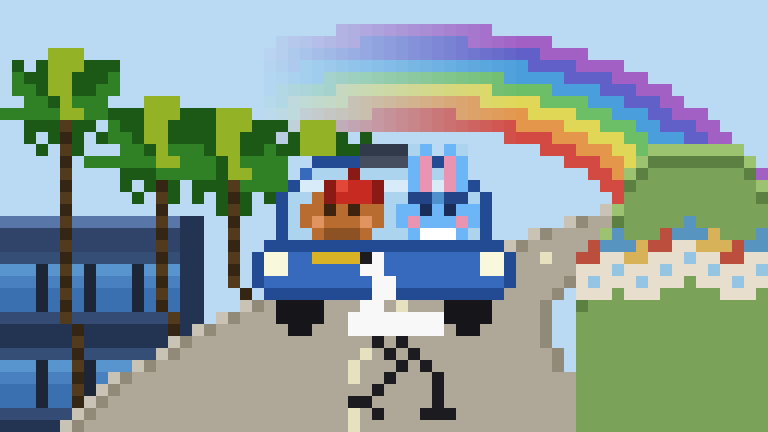
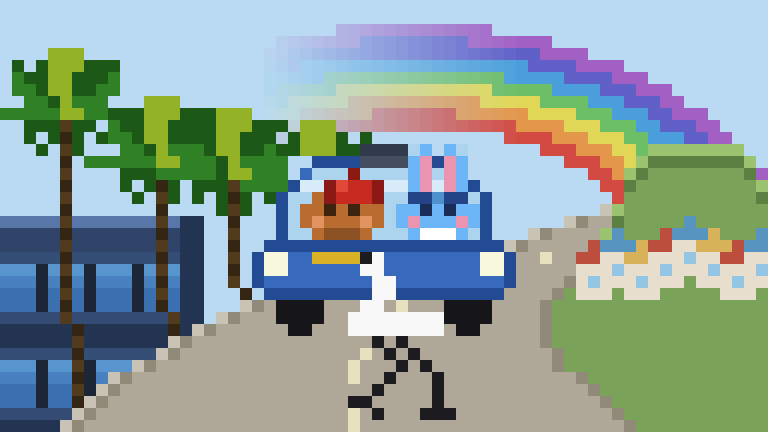
rainbow: 山体分层（y>=24路面下层）+路面右侧缺口填山体色

Changed region(s): [[0.7188, 0.662, 0.8438, 1.0]]

diff --git a/pixel_rainbow.py b/pixel_rainbow.py
@@ -177,6 +177,37 @@ draw_palm(19, 27, height=13)# 棕榈
 # 远处：小橡树+棕榈
 draw_palm(26, 23, height=8) # 远处棕榈
 
+# ── SF hillside colors ──
+HILL    = (122, 162,  88)
+HILL_D  = ( 92, 128,  65)
+HILL_LT = (155, 195, 112)
+H_WALL  = (232, 222, 205)
+H_ROOF  = (188,  78,  62)
+H_ROOF2 = ( 88, 148, 192)
+H_ROOF3 = (215, 178,  88)
+H_WIN   = (148, 198, 228)
+
+hill_profile = {
+    48: 24, 49: 22, 50: 19, 51: 17, 52: 14, 53: 13,
+    54: 12, 55: 12, 56: 12, 57: 12, 58: 12, 59: 12,
+    60: 12, 61: 12, 62: 13, 63: 15
+}
+
+# 山体 y>=24 部分（路面下层）
+for hx, hy_top in hill_profile.items():
+    y_start = max(hy_top, 24)
+    if y_start <= 35:
+        wcol(hx, y_start, 35, HILL)
+
+# 路面右侧到山体左边界的天空缺口填山体色（y=24~30）
+import math as _m2
+for _y in range(24, 31):
+    _t = (_y - 18) / 17.0
+    _cx = round(29 + (1-_t)**4 * 34)
+    _xr = min(63, _cx + round(10 + _t*36)//2)
+    if _xr + 1 <= 47:
+        wrow(_y, _xr+1, 47, HILL)
+
 # ── Road: 弧形弯道（向右弯出画面）──
 import math as _math
 for y in range(18, 36):
@@ -209,26 +240,13 @@ wrow(17, 51, 57, BRIDGE)
 sp(51, 17, BRIDGE_D)
 sp(57, 17, BRIDGE_D)
 sp(50, 17, BRIDGE_L)
-# ── SF hillside (right x=48~63, y=8~30) ──
-HILL    = (122, 162,  88)
-HILL_D  = ( 92, 128,  65)
-HILL_LT = (155, 195, 112)
-H_WALL  = (232, 222, 205)
-H_ROOF  = (188,  78,  62)
-H_ROOF2 = ( 88, 148, 192)
-H_ROOF3 = (215, 178,  88)
-H_WIN   = (148, 198, 228)
-
-# 山丘轮廓（从右侧延伸进来）
-hill_profile = {
-    48: 24, 49: 22, 50: 19, 51: 17, 52: 14, 53: 13,
-    54: 12, 55: 12, 56: 12, 57: 12, 58: 12, 59: 12,
-    60: 12, 61: 12, 62: 13, 63: 15
-}
+# ── SF hillside upper (y<=23，路面上层) ──
 for hx, hy_top in hill_profile.items():
-    wcol(hx, hy_top, 35, HILL)
-    sp(hx, hy_top, HILL_LT)
-    sp(hx, hy_top+1, HILL_D)
+    y_end = min(23, 35)
+    if hy_top <= y_end:
+        wcol(hx, hy_top, y_end, HILL)
+        sp(hx, hy_top, HILL_LT)
+        sp(hx, hy_top+1, HILL_D)
 
 # 山腰小房子（散布在山丘上）
 houses = [
@@ -237,12 +255,9 @@ houses = [
     (60, 21, H_ROOF),  (62, 20, H_ROOF2),
 ]
 for hx, hy, roof_c in houses:
-    # 屋身2x3
     fl(hy+1, hy+3, hx, hx+2, H_WALL)
-    # 屋顶三角（1格）
     wrow(hy, hx, hx+2, roof_c)
     sp(hx+1, hy-1, roof_c)
-    # 小窗
     sp(hx+1, hy+2, H_WIN)
 
 # ── Wheels (车体之前画) ──
